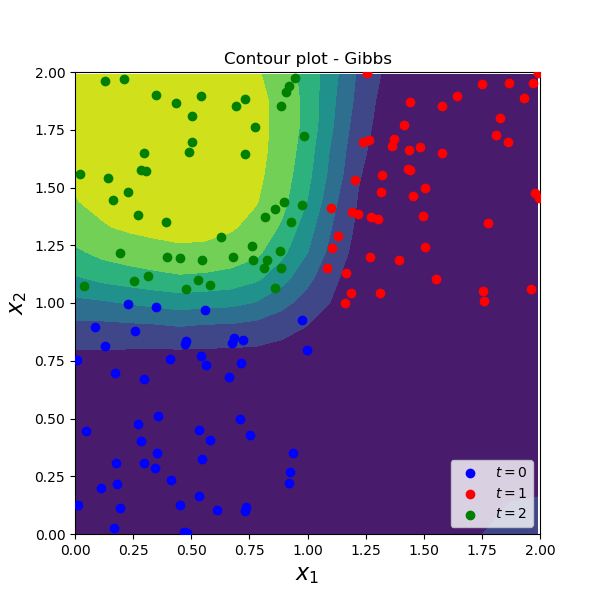
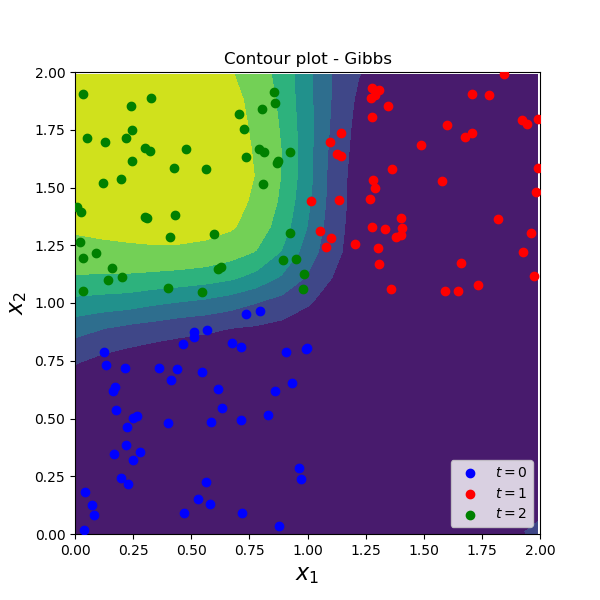
completed example2 with 1000 gibbs samples. Looking great.

diff --git a/examples/example4/example.py b/examples/example4/example.py
@@ -1,0 +1,100 @@
+"""Variational multinomial example."""
+import argparse
+import cProfile
+from io import StringIO
+import numpy as np
+import pathlib
+from probit import VariationalBayesClassifier
+from probit.kernels import Multivariate
+import matplotlib.pyplot as plt
+
+
+def main():
+    """Get Gibbs samples and predictive."""
+    parser = argparse.ArgumentParser()
+    # The --profile argument generates profiling information for the example
+    parser.add_argument('--profile', action='store_const', const=True)
+    # The n argument toggles between MPI and serial implementations
+    parser.add_argument('n', help="The number of processes used in mpiexec",
+                        type=int)
+    args = parser.parse_args()
+    if args.profile:
+        profile = cProfile.Profile()
+        profile.enable()
+    if args.n:
+        num_processes = args.n
+    else:
+        num_processes = 0
+
+    # train = np.load(read_path / 'train.npz')
+    # test = np.load(read_path / 'test.npz')
+    #
+    # X_train = train['X']
+    # t_train = train['t']
+    # X0_train = train['X0']
+    # X1_train = train['X1']
+    # X2_train = train['X2']
+    #
+    # X_test = test['X']
+    # t_test = test['t']
+    # X0_test = test['X0']
+    # X1_test = test['X1']
+    # X2_test = test['X2']
+    ## Plotting
+    # plt.scatter(X0[:, 0], X0[:, 1], color='b', label=r"$t=0$")
+    # plt.scatter(X1[:, 0], X1[:, 1], color='r', label=r"$t=1$")
+    # plt.scatter(X2[:, 0], X2[:, 1], color='g', label=r"$t=2$")
+    # plt.legend()
+    # plt.xlim(0, 2)
+    # plt.ylim(0, 2)
+    # plt.xlabel(r"$x_1$", fontsize=16)
+    # plt.ylabel(r"$x_2$", fontsize=16)
+    # plt.show()
+
+    # for i, t_predi in enumerate(t_pred):
+    #     if t_predi == 0:
+    #         plt.scatter(X_train[i, 0], X_train[i, 1], color='b')
+    #     elif t_predi == 1:
+    #         plt.scatter(X_train[i, 0], X_train[i, 1], color='r')
+    # plt.xlim(-1,1)
+    # plt.ylim(-1,1)
+    # plt.xlabel(r"$x_1$",fontsize=16)
+    # plt.ylabel(r"$x_2$",fontsize=16)
+    # plt.title("Thresholded class predictions using VB")
+    # plt.show()
+    #
+    # print('X_test', X_test[:, :2])
+    # print('t_test', t_test)
+    # print('dist', distributions)
+    # print('likelihood', log_predictive_likelihood)
+    # assert 0
+    #
+    # Z = np.zeros((N, N))
+    # for i in range(N):
+    #     for j in range(N):
+    #         s = np.exp(log_s[i])
+    #         varphi = np.exp(log_varphi[j])
+    #         Z = get_log_likelihood(1.0, 1.0, X_train, t_train, X_test, t_test, 2, 2, K)
+    #         print(Z)
+    # fig, axs = plt.subplots(1, figsize=(6, 6))
+    # plt.contourf(log_ss, log_varphis, Z, zorder=1)
+
+    K = 3
+    D = 10 # is it?
+    varphi = np.ones((K, D)) # TODO: choose varphi
+    kernel = Multivariate(varphi)
+    gibbs_classifier = VariationalBayesClassifier(kernel, X, t)
+
+    # Get posterior estimates (iterate until convergence)
+
+
+    if args.profile:
+        profile.disable()
+        s = StringIO()
+        stats = Stats(profile, stream=s).sort_stats(SortKey.CUMULATIVE)
+        stats.print_stats(.05)
+        print(s.getvalue())
+
+
+if __name__ == "__main__":
+    main()

diff --git a/probit/samplers.py b/probit/samplers.py
@@ -4,8 +4,7 @@ import pathlib
 import numpy as np
 from scipy.stats import norm, multivariate_normal
 from tqdm import trange
-from .utilities import sample_U
-# from .utilities import log_heaviside_probit_likelihood
+from .utilities import sample_U, sample_Us, matrix_of_differences
 
 
 class Sampler(ABC):
@@ -158,33 +157,24 @@ class GibbsMultinomialGP(Sampler):
     def expectation_wrt_u(self, m, n_samples):
         """
         Calculate distribution over classes.
-
+        TODO: is m actually (K, 1) or is it (K, )
         :arg m: is an (K, 1) array filled with m_k^{new, s} where s is the sample, and k is the class indicator.
         :type m: :class:`numpy.ndarray`
         """
-        # Find matrix of coefficients
-        Lambda = np.tile(m, (self.K, 1))
-        Lambda_T = Lambda.T
-        # Symmetric matrix of differences
-        differences = Lambda - Lambda_T
+        # Find antisymmetric matrix of differences
+        difference = matrix_of_differences(m, self.K)
         # Take samples
         samples = []
         Us = sample_Us(self.K, n_samples, different_across_classes=True)
-        random_variables = []
-        for i in range(n_samples):
-            # Sample normal random variate
-            U = sample_U(self.K, different_across_classes=True)
-            Us.append(U)
-
-            random_variables = np.add(U, differences)
-            cum_dists = norm.cdf(random_variables, loc=0, scale=1)
-            # Employ a log-transform to do stable multiplication, may not be necessary but it's safe/un-costly
-            log_cum_dists = np.log(cum_dists)
-            np.fill_diagonal(log_cum_dists, 0)
-            log_sample = np.sum(log_cum_dists, axis=0)
-            samples.append(np.exp(log_sample))
-
-        distribution_over_classes = 1 / n_samples * np.sum(samples, axis=0)
+        random_variables = np.add(difference, Us)
+        cum_dists = norm.cdf(random_variables, loc=0, scale=1)
+        log_cum_dists = np.log(cum_dists)
+        log_cum_dists[:, range(self.K), range(self.K)] = 0
+        # axis 0 is the n_samples samples, axis 2 is then the row index, which is the product of cdfs of interest
+        log_samples = np.sum(log_cum_dists, axis=2)
+        samples = np.exp(log_samples)
+        # axis 0 is the n_samples samples, which is the monte-carlo sum of interest
+        distribution_over_classes = 1. / n_samples * np.sum(samples, axis=0)
         return distribution_over_classes
 
     def multidimensional_expectation_wrt_u(self, ms, n_samples):
@@ -198,6 +188,8 @@ class GibbsMultinomialGP(Sampler):
 
         :returns: Distribution over classes
         """
+        # Find antisymmetric matrix of differences
+        difference = matrix_of_differences(ms, self.K)
         # Find matrix of coefficients
         N_test = np.shape(ms)[0]
         ms = ms.reshape((N_test, 1, self.K))

diff --git a/probit/utilities.py b/probit/utilities.py
@@ -34,7 +34,7 @@ def sample_varphi(psi):
     return varphi_sample
 
 
-def sample_U(K, different_across_classes=None):
+def sample_U(K, different_across_classes=None):  # TODO: May have been SS
     if not different_across_classes:
         # Will this induce an unwanted link between the y_nk across k? What effect will it have?
         u = norm.rvs(0, 1, 1)
@@ -62,10 +62,9 @@ def sample_Us(K, n_samples, different_across_classes=None):
     return Us
 
 
-def matrix_of_differences(m_n):
+def matrix_of_differences(m_n, K):  # TODO: changed this, VB will need changing
     """ Get a matrix of differences of the vector m."""
     # Find matrix of coefficients
-    K = np.shape(m_n)[0]
     Lambda = np.tile(m_n, (K, 1))
     Lambda_T = Lambda.T
     # antisymmetric matrix of differences, the rows contain the elements of the product of interest

diff --git a/examples/example2/example.py b/examples/example2/example.py
@@ -59,7 +59,7 @@ def main():
     kernel = SEIsoBinomial(varphi=1.0, s=1.0)
     gibbs_classifier = GibbsMultinomialGP(X, t, kernel)
     steps_burn = 100
-    steps = 15
+    steps = 1000
     M_0 = np.zeros((N, K))
     # Burn in
     M_samples, Y_samples = gibbs_classifier.sample(M_0, steps_burn)
